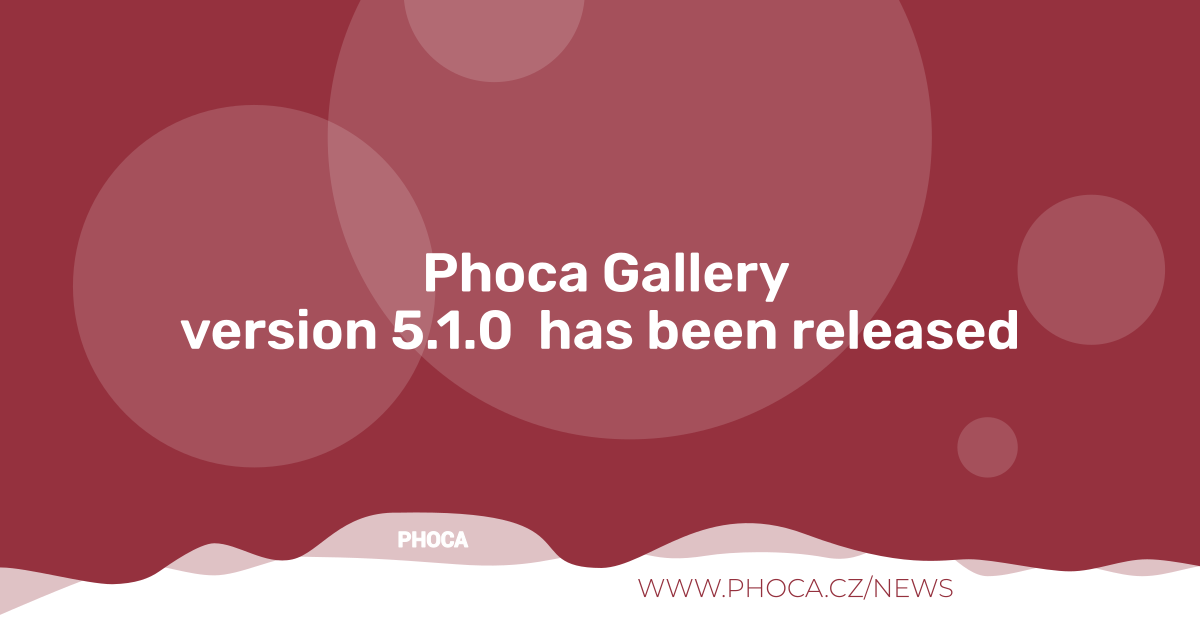
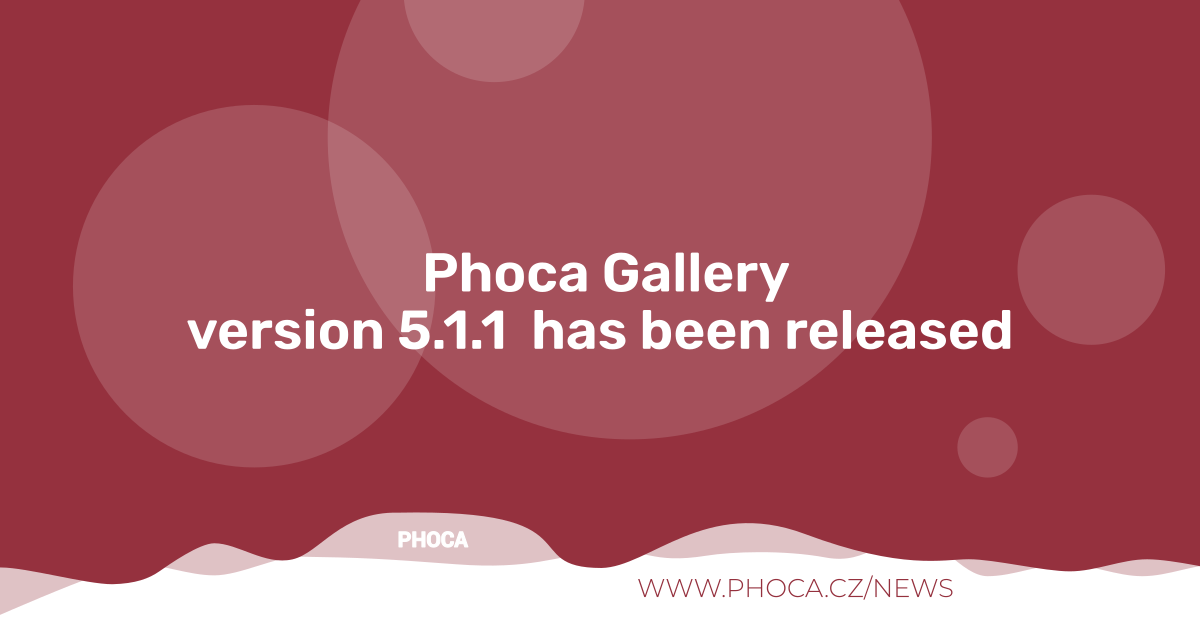
5.1.1

Changed region(s): [[0.1542, 0.4825, 0.8633, 0.573]]

diff --git a/admin/models/phocagalleryef.php b/admin/models/phocagalleryef.php
@@ -119,7 +119,7 @@ class PhocaGalleryCpModelPhocaGalleryEf extends AdminModel
 	public function &getSource($id, $filename, $type) {
 		$item = new stdClass;
 
-		$filePath = PhocaGalleryPhocaGalleryFile::existsCSS($filename, $type);
+		$filePath = PhocaGalleryFile::existsCSS($filename, $type);
 		if ($filePath) {
 			//$item->id			= $id;
 			//$item->type			= $type;
@@ -148,7 +148,7 @@ class PhocaGalleryCpModelPhocaGalleryEf extends AdminModel
 			}
 			$filename 			= $filename . '.css';
 			$data['filename']	= $filename;
-			$filePath = PhocaGalleryPhocaGalleryFile::existsCSS($filename, $data['type']);
+			$filePath = PhocaGalleryFile::existsCSS($filename, $data['type']);
 			if ($filePath) {
 				$this->setError(Text::sprintf('COM_PHOCAGALLERY_FILE_ALREADY_EXISTS', $fileName));
 				return false;
@@ -157,7 +157,7 @@ class PhocaGalleryCpModelPhocaGalleryEf extends AdminModel
 			}
 		} else {
 			$filename = PhocaGalleryFile::getCSSFile($data['id']);
-			$filePath = PhocaGalleryPhocaGalleryFile::existsCSS($filename, $data['type']);
+			$filePath = PhocaGalleryFile::existsCSS($filename, $data['type']);
 		}
 
 		//$dispatcher = J EventDispatcher::getInstance();

diff --git a/admin/models/phocagalleryimg.php b/admin/models/phocagalleryimg.php
@@ -220,7 +220,7 @@ class PhocaGalleryCpModelPhocaGalleryImg extends AdminModel
 			}
 		} else {
 			//If this file doesn't exists don't save it
-			if (!PhocaGalleryPhocaGalleryFile::existsFileOriginal($data['filename'])) {
+			if (!PhocaGalleryFile::existsFileOriginal($data['filename'])) {
 				//$this->setError('Original File does not exist');
 				//return false;
 				$fileOriginalNotExist = 1;
@@ -493,7 +493,7 @@ class PhocaGalleryCpModelPhocaGalleryImg extends AdminModel
 						return false;
 					} else if (isset($value->filename) && $value->filename != '') {
 
-						$original	= PhocaGalleryPhocaGalleryFile::existsFileOriginal($value->filename);
+						$original	= PhocaGalleryFile::existsFileOriginal($value->filename);
 						if (!$original) {
 							// Original does not exist - cannot generate new thumbnail
 							$message = Text::_('COM_PHOCAGALLERY_FILEORIGINAL_NOT_EXISTS');

diff --git a/admin/views/phocagalleryefs/tmpl/default.php b/admin/views/phocagalleryefs/tmpl/default.php
@@ -111,7 +111,7 @@ if ($canCreate || $canEdit) {
 
 echo $r->td($checkO, "small");
 
-$filename 	= PhocaGalleryPhocaGalleryFile::existsCss($item->filename, $item->type);
+$filename 	= PhocaGalleryFile::existsCss($item->filename, $item->type);
 $main		= '';
 if ((int)$item->type == 1) {
 	$main = ' <span class="label label-warning badge bg-warning">'.Text::_('COM_PHOCAGALLERY_MAIN').'</span>';

diff --git a/site/models/user.php b/site/models/user.php
@@ -883,7 +883,7 @@ class PhocagalleryModelUser extends BaseDatabaseModel
 
 		if (!$edit) {
 			//If this file doesn't exists don't save it
-			if (!PhocaGalleryPhocaGalleryFile::existsFileOriginal($data['filename'])) {
+			if (!PhocaGalleryFile::existsFileOriginal($data['filename'])) {
 				$this->setError('File not exists');
 				return false;
 			}

diff --git a/site/models/category.php b/site/models/category.php
@@ -426,7 +426,7 @@ class PhocagalleryModelCategory extends BaseDatabaseModel
 
 
 
-		if (!PhocaGalleryPhocaGalleryFile::existsFileOriginal($data['filename'])) {
+		if (!PhocaGalleryFile::existsFileOriginal($data['filename'])) {
 			$this->setError('File not exists');
 			return false;
 		}

diff --git a/README.MD b/README.MD
@@ -150,7 +150,7 @@ Phoca Gallery is an efficient image gallery extension for Joomla! CMS.
 
 ## Version (Joomla! 5.x)
 
-5.1.0
+5.1.1
 
 
 
